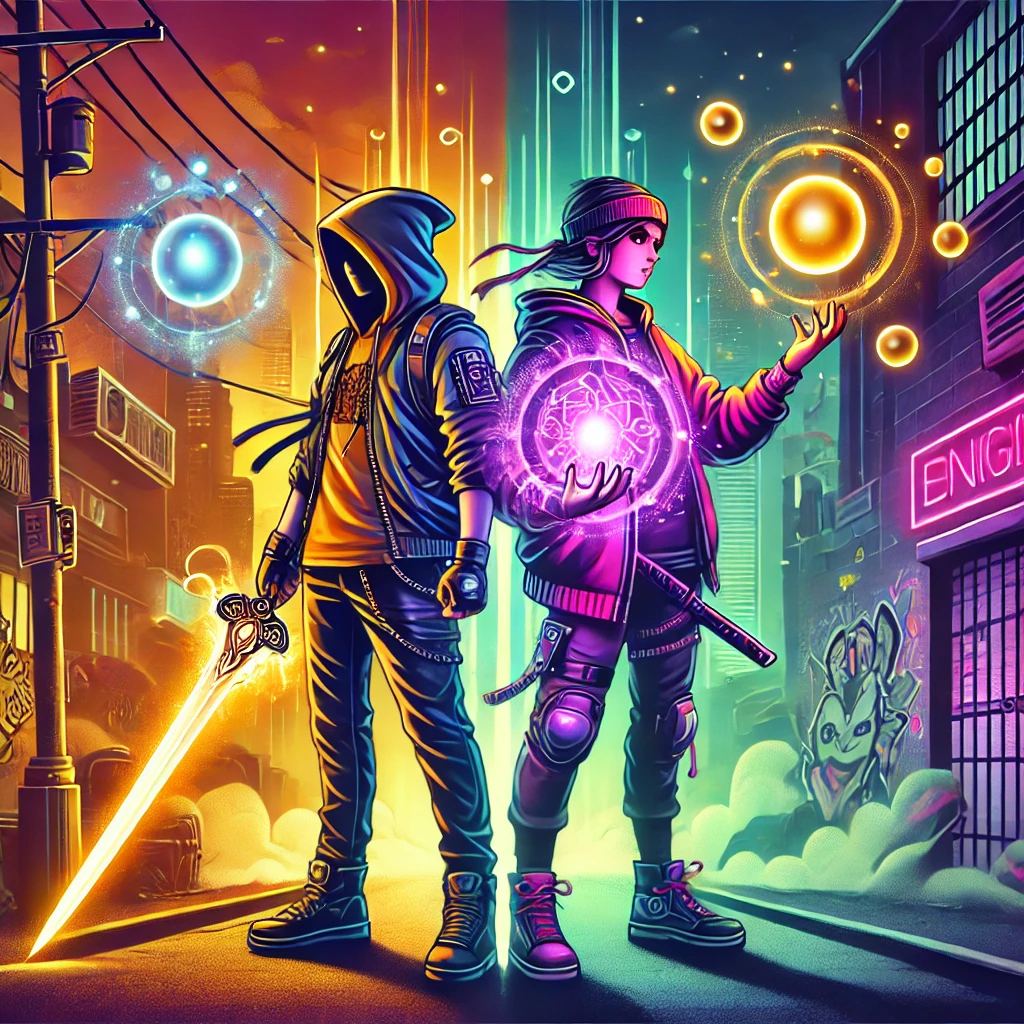
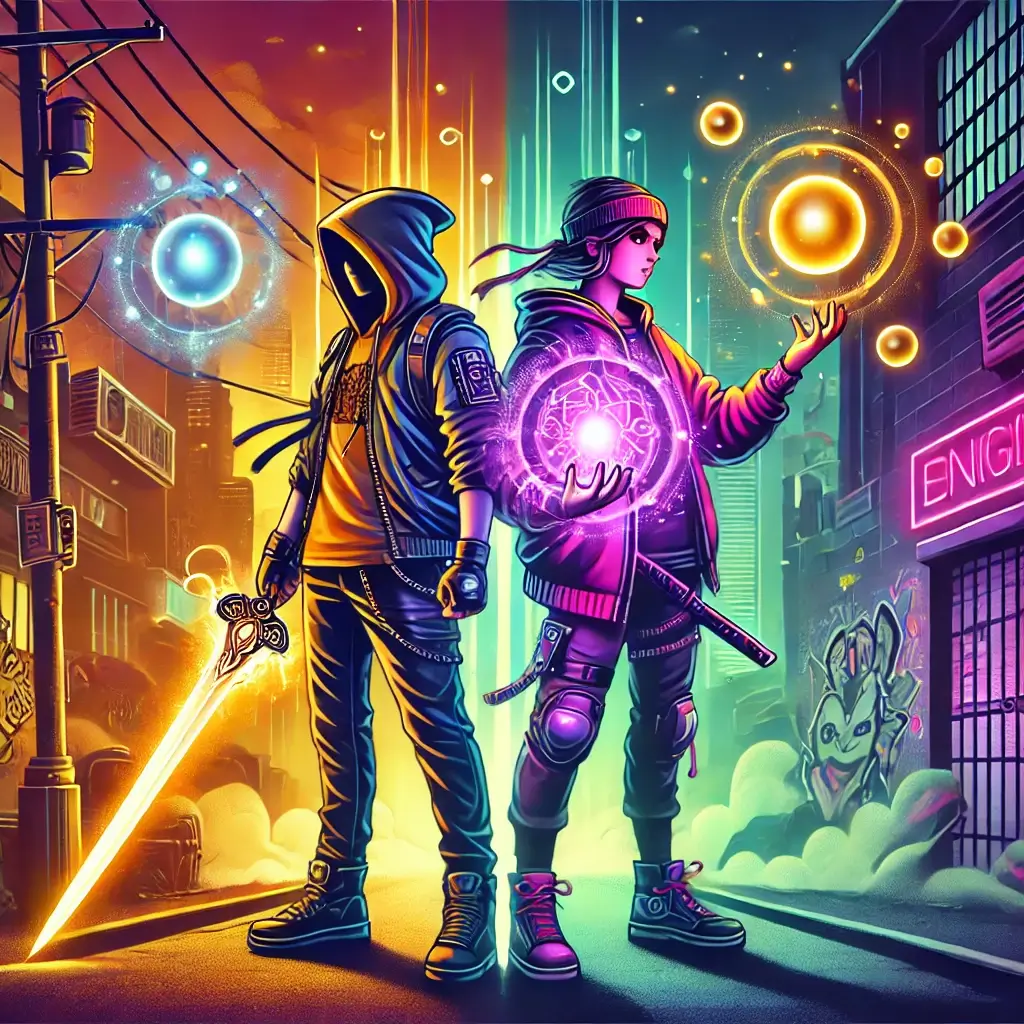
reduce images sizes

diff --git a/components/Navbar.tsx b/components/Navbar.tsx
@@ -19,11 +19,23 @@ const Navbar: React.FC = () => {
         <div className="flex items-center">
           <div className="block md:hidden px-4">
             {/* Mobile Logo */}
-            <Image src="/s-icon.png" alt="Mobile Logo" width={15} height={15} />
+            <Image
+              src="/s-icon.png"
+              priority={true}
+              alt="Mobile Logo"
+              width={15}
+              height={15}
+            />
           </div>
           <div className="hidden md:block">
             {/* Desktop Logo */}
-            <Image src="/logo-small.png" alt="Logo" width={150} height={100} />
+            <Image
+              src="/logo-small.png"
+              priority={true}
+              alt="Logo"
+              width={150}
+              height={100}
+            />
           </div>
         </div>
 

diff --git a/components/Hero.tsx b/components/Hero.tsx
@@ -60,6 +60,7 @@ const Hero: React.FC = () => {
               muted
               playsInline
               className="w-full h-full object-cover rounded-[60px]"
+              poster="/hero-image.webp"
             />
           </div>
         </motion.div>
